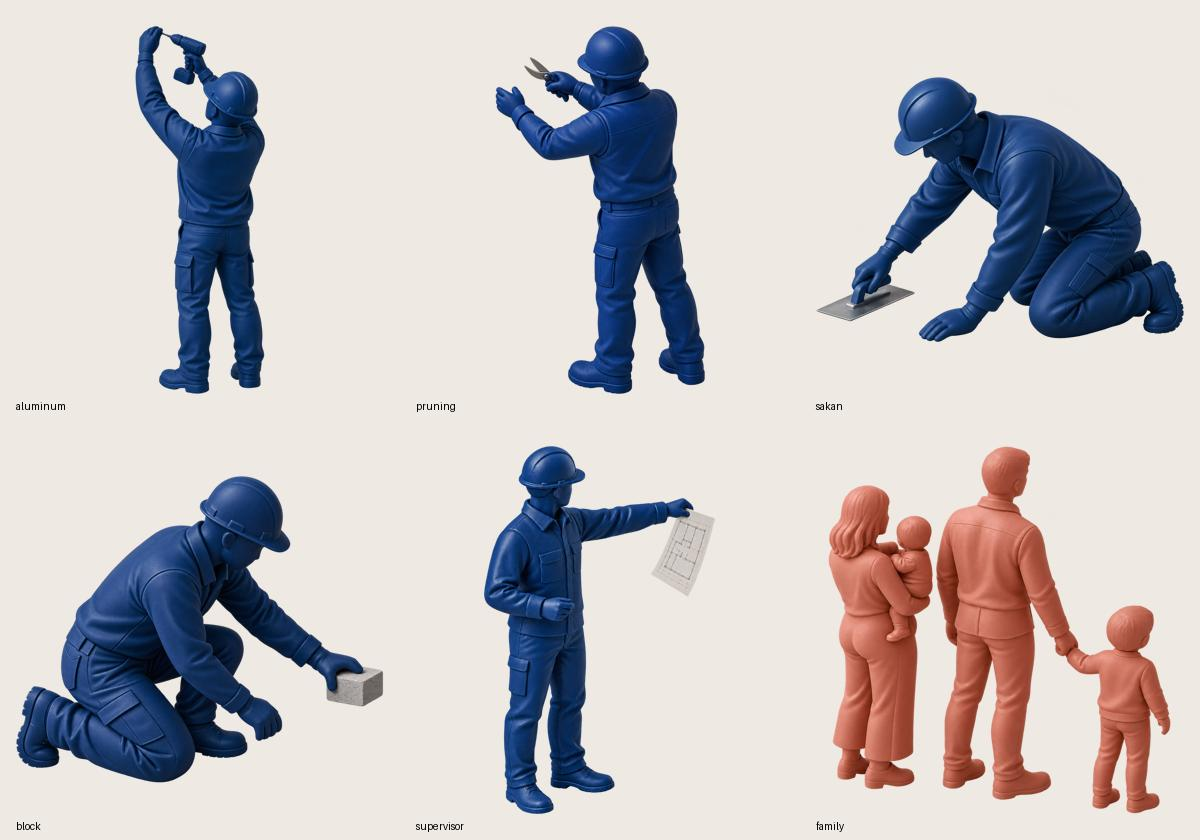
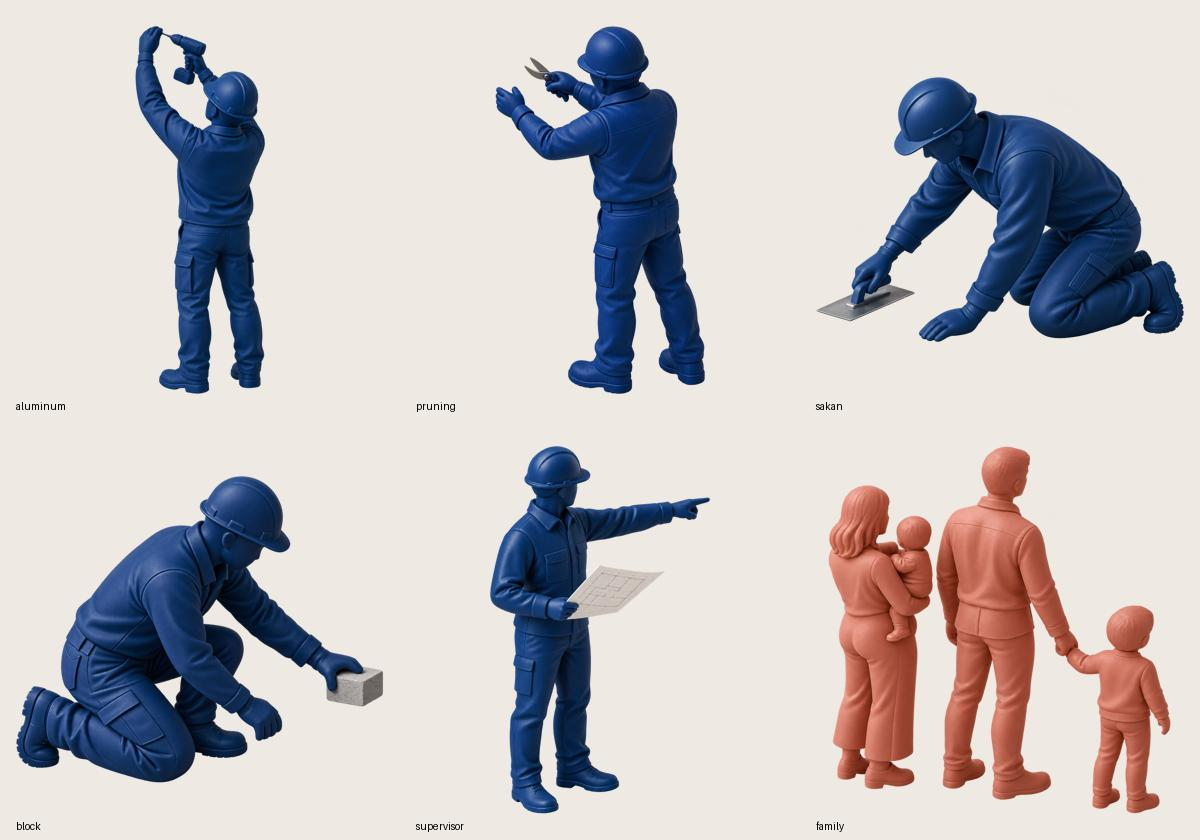
Use selected supervisor mannequin artwork

Changed region(s): [[0.4008, 0.5262, 0.6167, 0.9905]]

diff --git a/images/top-hero/mannequin-artwork.md b/images/top-hero/mannequin-artwork.md
@@ -34,7 +34,7 @@ Target: the NAVY BLUE SITE SUPERVISOR at left-center, around x552 y521 in the 16
 
 Target: ONLY the TERRACOTTA/SALMON-COLORED FAMILY GROUP at foreground-left, around x420 y625 in the 1672x941 reference. It consists of the mother on the left holding a baby, the tall father in the middle, and the standing child on the right. Preserve the exact four-person grouping (two adults, one baby being held, one standing child), poses, arm and leg placement, spacing, back/three-quarter viewing directions, proportions and uniform terracotta/salmon miniature mannequin color. Do not change colors to blue. No tools or extra people. Remove the ground patch, shadows, house, platform and all other scene objects; only the complete family group with transparent gaps between figures remains.
 
-## Supervisor targeted correction
+## Supervisor selected version
 
-Edit target: attached navy supervisor mannequin cutout. Make only one change: move the architectural drawing from the bent LEFT hand at waist to the extended RIGHT hand pointing to image right. Keep both arms in exactly their existing positions; right hand grips the paper edge instead of pointing a bare index finger, paper extends downward from the right hand. The left hand at waist is empty. Preserve figure, pose, camera, navy color, silhouette, clothing, scale and lighting. True transparent background, no glow, no halo, no ground, no shadows outside the figure. Complete full-body sprite.
+On 2026-10-24 the user selected the original generated supervisor, pointing with one hand and holding the plan at the waist. Source: `C:/Users/desig/Desktop/exec-dd7d2054-da4f-440a-a35b-00dcfd8f77d8.png`. Converted directly to lossless WebP with the same alpha crop procedure; no new generation or pose edits.
 
